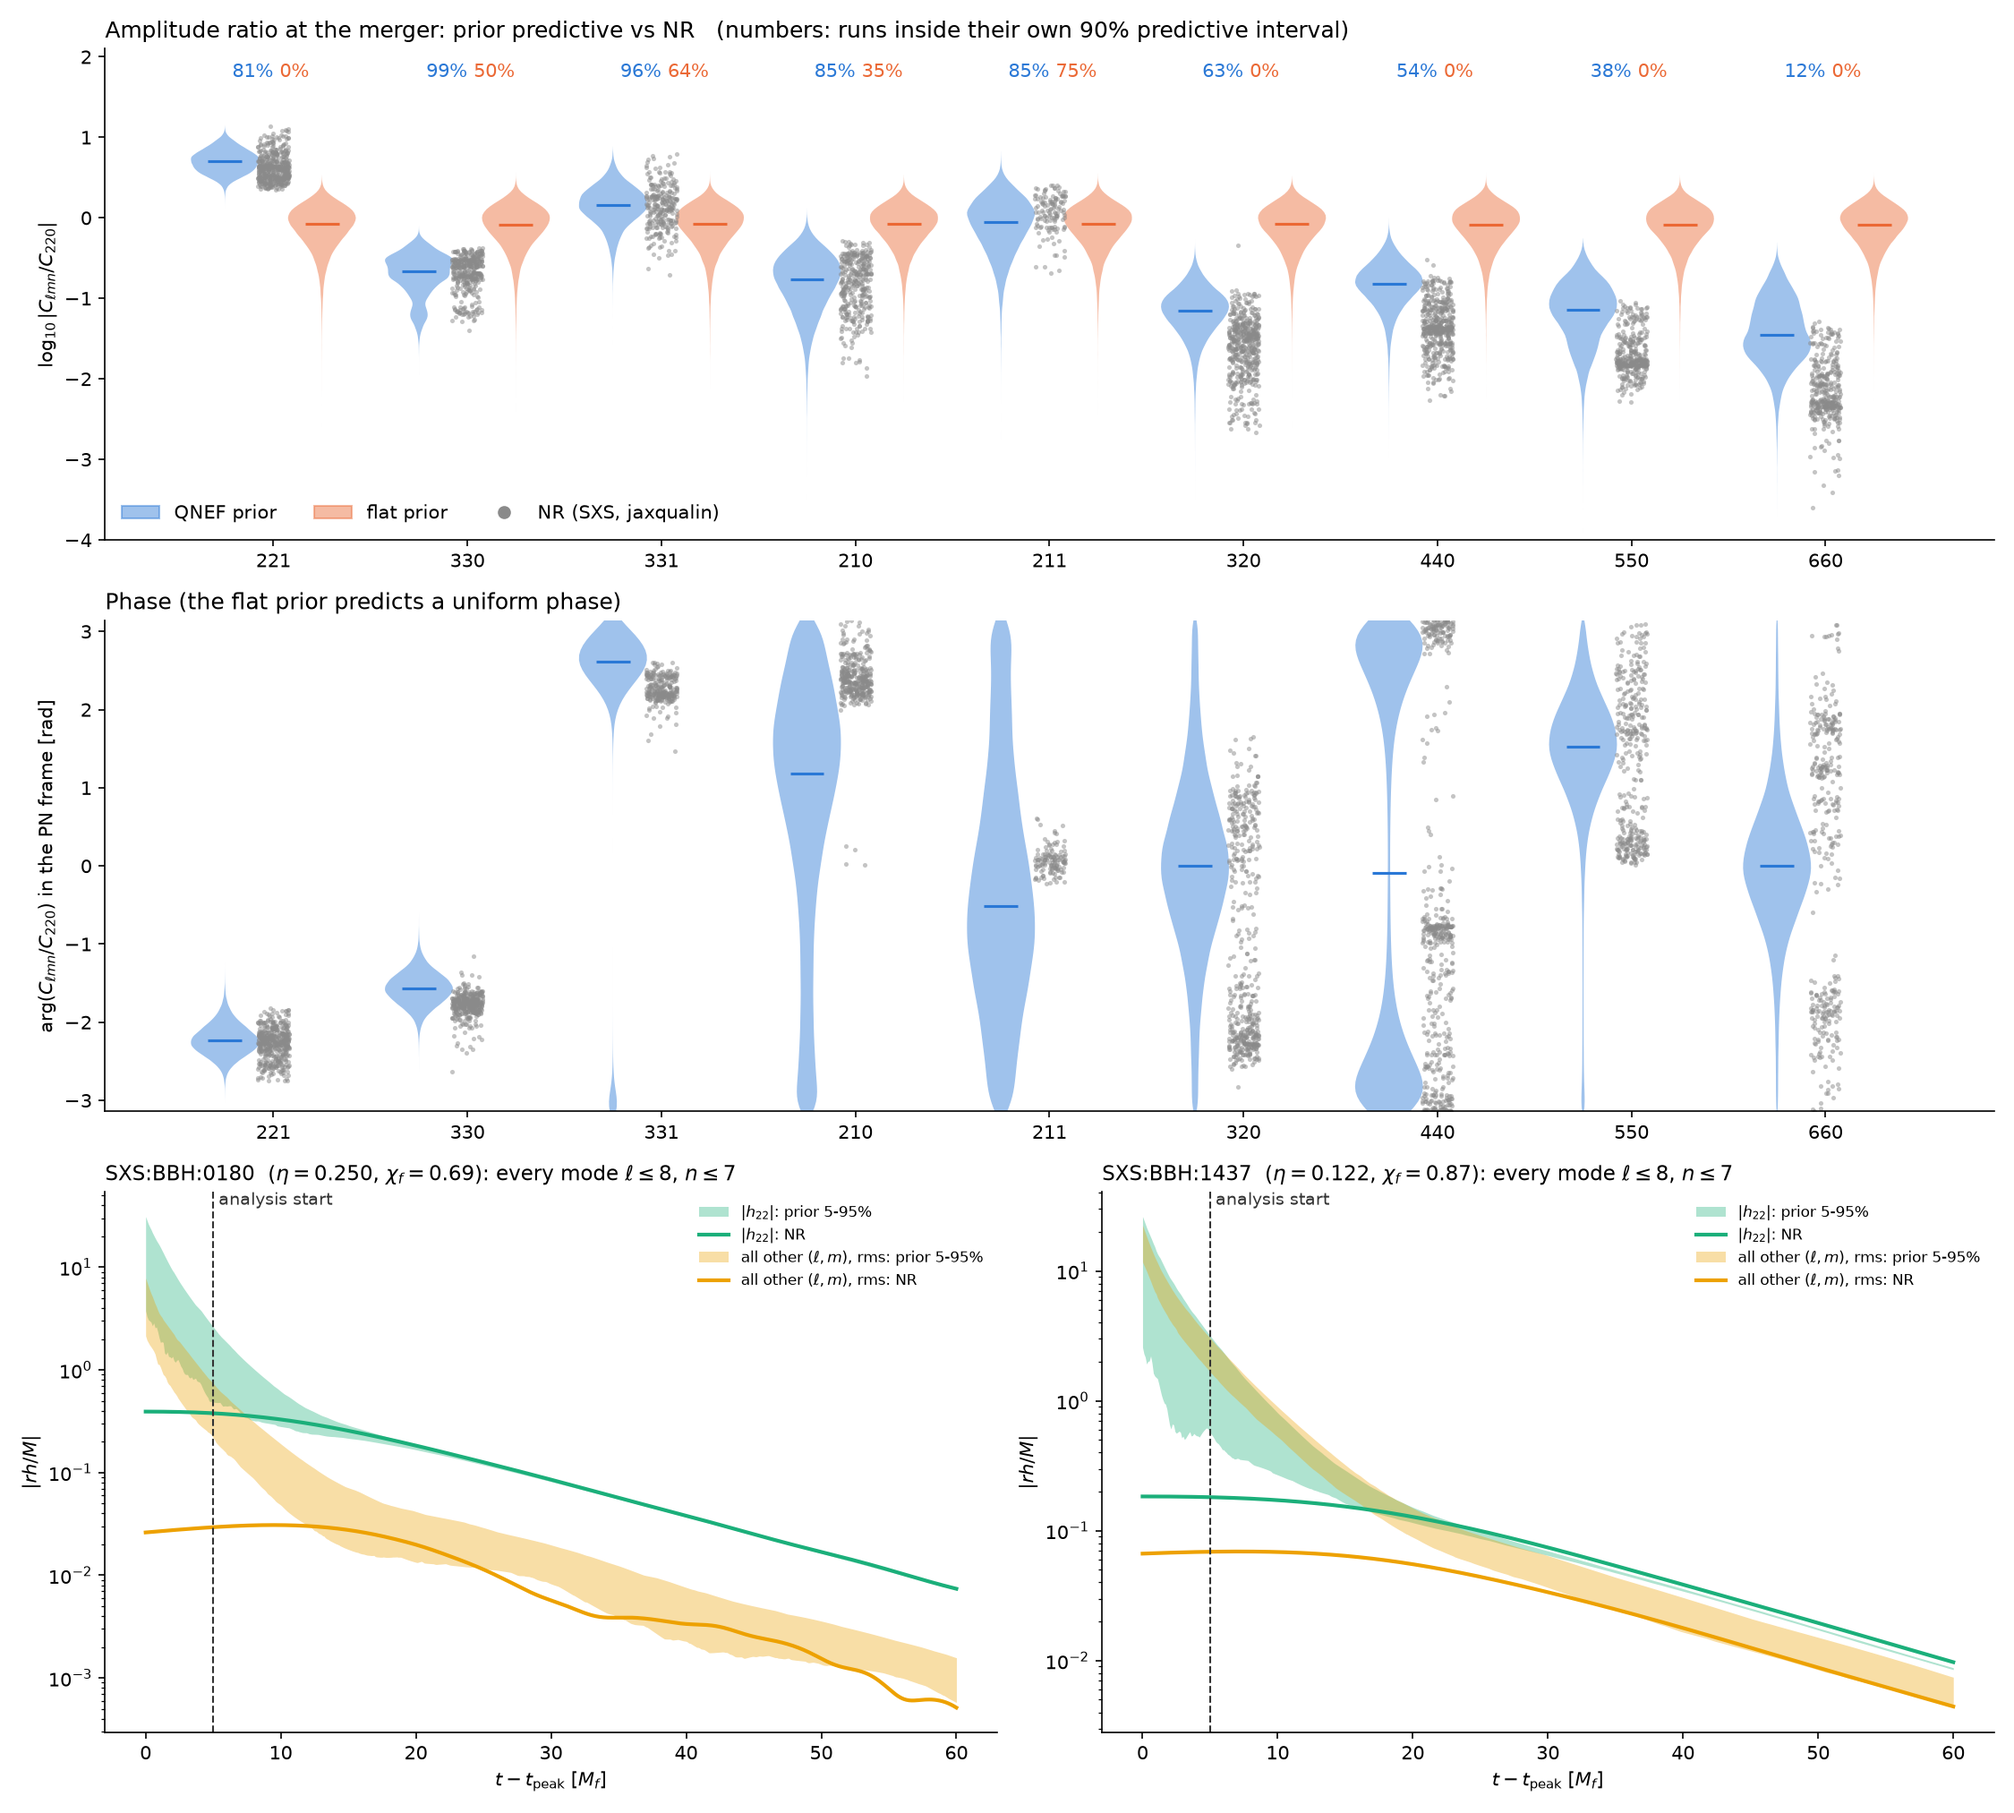
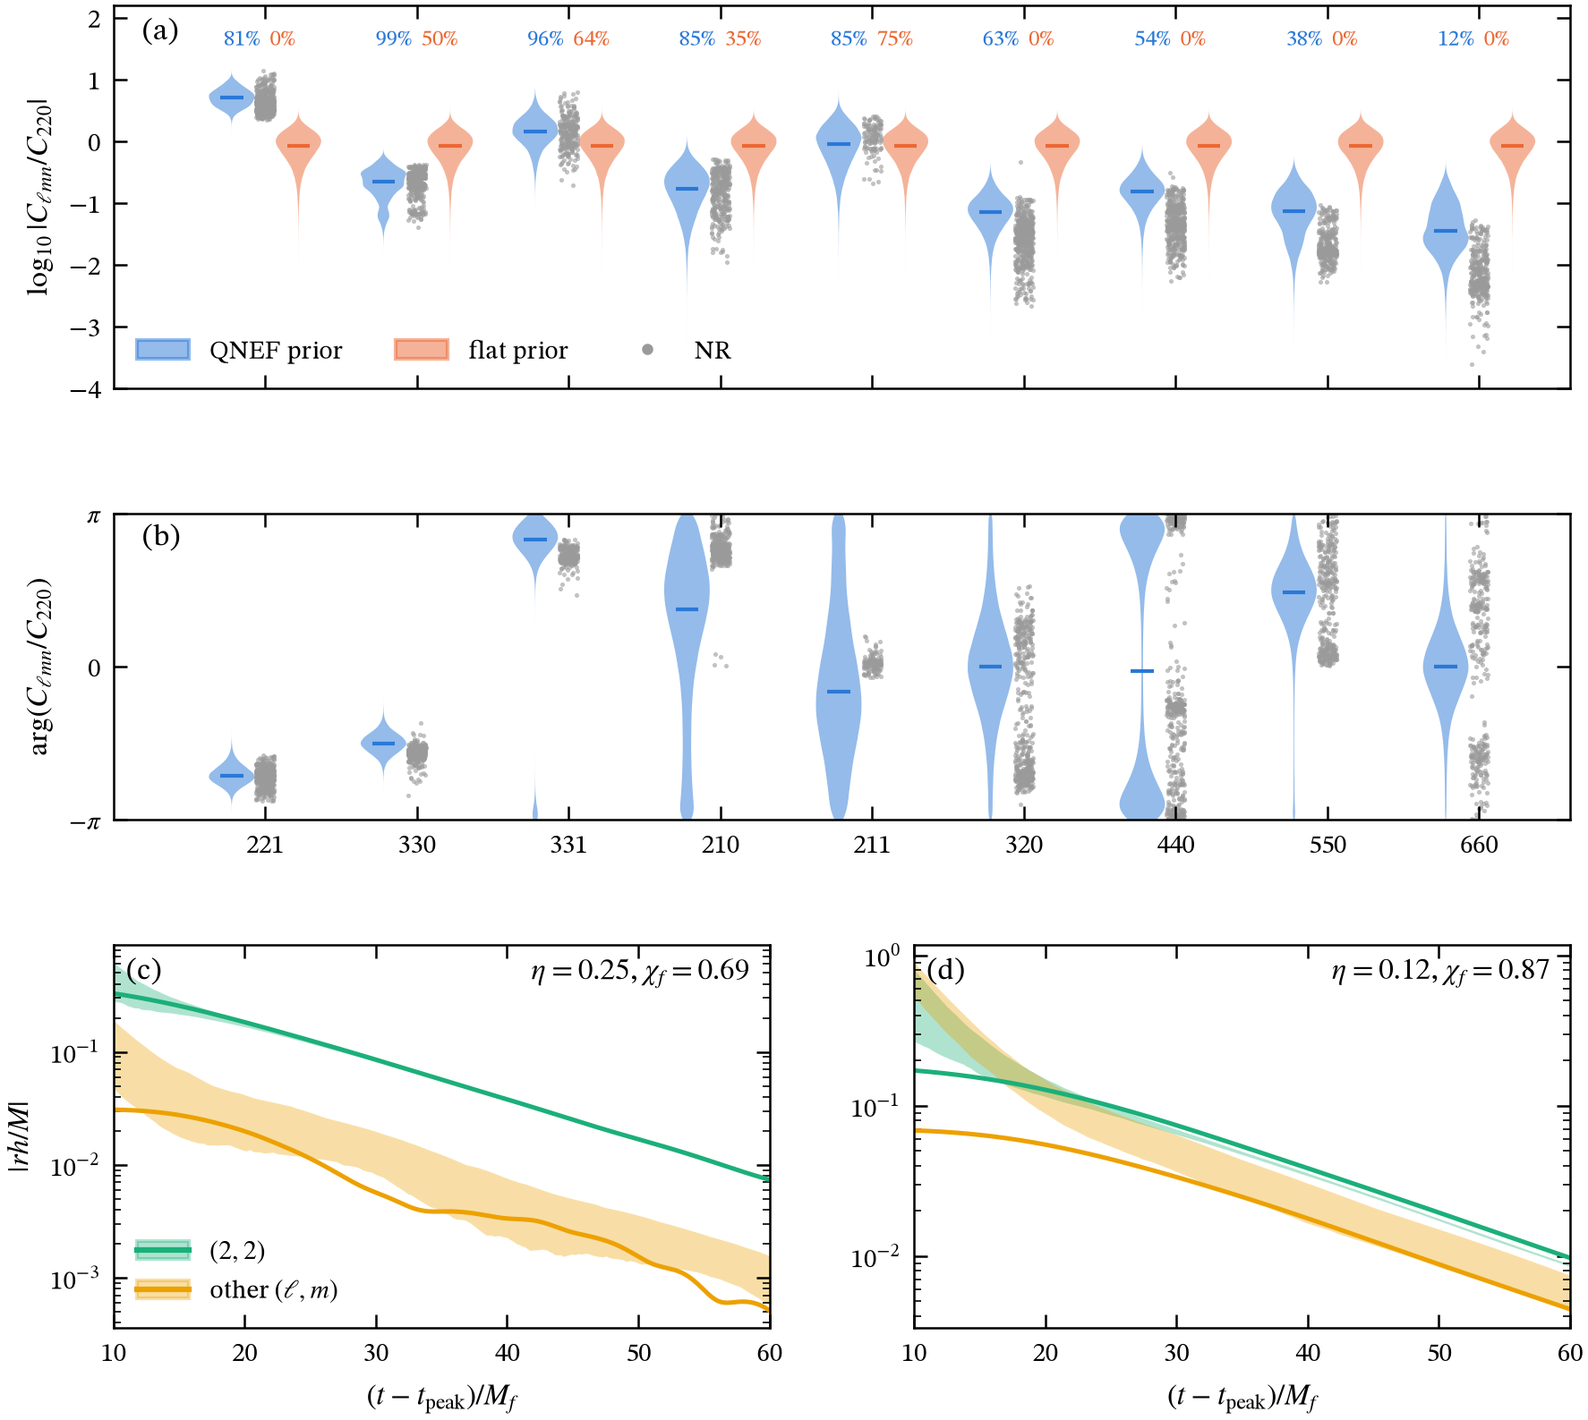
measuring-qnms: default start 10M, F1 retired, findings renumbered and redrawn

diff --git a/projects/measuring-qnms/results.md b/projects/measuring-qnms/results.md
@@ -1,73 +1,41 @@
-Findings under the v2 model (complex strain, tied mirror modes, detector noise), newest first. The v1 plots were retired on 2026-09-24; their numbers remain in the [log](#log).
+Findings under the v2 model (complex strain, tied mirror modes, detector noise, NR-calibrated priors), newest first. Every analysis starts at $t_0 = 10\,M_f$ after the peak of $|h_{22}|$ unless stated. The v1 plots and the earlier F1 (the calibration scatter) are retired; their numbers remain in the [log](#log).
 
-Each finding is self-contained:
-
-- **Question**: what the figure is meant to answer.
-- **Figure**: click to open it at full size.
-- **Takeaway**: the one or two sentences to remember.
-- **Setup**: source, detector, prior, mode content.
-- **Reproduce**: script and commit.
-
-### F3 — A GW250114-like ringdown against the detector sensitivities (2026-09-24, real SXS strain, every mode)
+### F2 — A GW250114-like ringdown against the detector sensitivities
 
 <figure>
-<a href="figs/sensitivity_overlay.png"><img src="figs/sensitivity_overlay.png" alt="Three panels: characteristic strain of the real SXS:BBH:0180 ringdown and of QNEF prior draws against O4, A+, ET-D and CE, from 5 M and from 10 M after the peak, and against LISA for a million-solar-mass remnant at redshift 1"></a>
-<figcaption>$2\sqrt f\,|\tilde h_+(f)|$ against $\sqrt{f S_n(f)}$ (Moore, Cole &amp; Berry convention). Black: the real SXS:BBH:0180 strain (equal mass, non-spinning, $\chi_f = 0.686$), all harmonics $\ell \le 8$, $m \ne 0$, at $\iota = 0.78$, from $t_0$ on. Grey: 40 QNEF-prior draws of every mode ($\ell \le 8$, $n \le 7$) conditioned on the 220 fitted to that strain. Panels (a) and (b) start at $5\,M$ and $10\,M$ after the peak. $h_+$ for $F_+ = 1$; 60° interferometers at their best orientation. ρ is the optimal single-detector SNR of the NR strain.</figcaption>
+<a href="figs/sensitivity_overlay.png"><img src="figs/sensitivity_overlay.png" alt="Characteristic strain of the real SXS:BBH:0180 ringdown and of QNEF prior draws against O4, A+, ET and Cosmic Explorer (left) and against LISA for a million-solar-mass remnant at redshift 1 (right), from 10 M after the peak"></a>
+<figcaption>$2\sqrt f\,|\tilde h_+(f)|$ against $\sqrt{f S_n(f)}$ (Moore, Cole &amp; Berry convention), from $t_0 = 10\,M_f$. Black: the SXS:BBH:0180 strain (equal mass, non-spinning, $\chi_f = 0.686$; all harmonics $\ell \le 8$, $m \ne 0$; $\iota = 0.78$). Grey: 40 draws of every mode ($\ell \le 8$, $n \le 7$) from the QNEF prior conditioned on the fitted 220. (a) GW250114 scaling: $M_f^{\rm det} = 68.1\,M_\odot$, $D_L = 405$ Mpc. (b) $M_f = 10^6\,M_\odot$ at $z = 1$. $h_+$ for $F_+ = 1$; ET and LISA (60° interferometers) at their best orientation. ρ is the optimal single-detector SNR of the NR strain.</figcaption>
 </figure>
-
-**Question.** How does a GW250114-like ringdown sit against current and future detectors, and does the QNM model with our prior reproduce the real strain?
 
 **Takeaway.**
 
-- **With the real strain, the SNR is right.** O4 gives an optimal ρ = 35 from the peak, consistent with LVK's network value of about 40 post-merger, and 22 from $10\,M$. The earlier version injected the jaxqualin QNM fit, which is about 10× too loud at the peak and gave ρ = 120.
-- **From $5\,M$ (a), the all-mode draws scatter well above the real strain,** below 100 Hz and above 400 Hz. From $10\,M$ (b) they bracket it (see F2 for the coverage numbers).
-- **Optimal SNRs from $5\,M$:** O4 27, A+ 48, ET-D 223, CE 20 km 266, CE 40 km 389. From $10\,M$: 22, 41, 187, 223, 326. From the peak, O4 gets 35. For a $10^6\,M_\odot$ remnant at $z = 1$, LISA gets about 2800 per channel from $10\,M$.
+- The prior draws bracket the real strain.
+- Optimal SNRs from $10\,M$: O4 22, A+ 41, ET 187, CE 20 km 223, CE 40 km 326; LISA about 2800 per channel.
+- From the peak, O4 gets 35, in line with LVK's network value of about 40 post-merger.
 
-**Caveats.** $\varphi$ is set to 0 and $\iota$ is the folded value. $D_L = 405$ Mpc comes from $z = 0.086$. $m = 0$ harmonics are left out. 
+**Caveats.** $\varphi = 0$; $\iota$ is the folded value; $m = 0$ harmonics are left out; $D_L$ comes from $z = M_f^{\rm det}/M_f - 1$.
 
-**Reproduce.** `python -m mqnm.experiments.sensitivity_overlay` (downloads SXS:BBH:0180 through `sxs`).
+**Reproduce.** `python -m mqnm.experiments.sensitivity_overlay`.
 
-### F2 — Do the calibrated priors actually cover NR? (2026-09-24; strain row added)
+### F1 — Do the calibrated priors cover NR?
 
 <figure>
-<a href="figs/prior_vs_nr.png"><img src="figs/prior_vs_nr.png" alt="Top two rows: prior-predictive amplitude ratios per mode versus NR, modulus and phase. Bottom row: NR strain versus prior bands with every mode for two SXS runs"></a>
-<figcaption>Rows 1–2: for each SXS run, both priors conditioned on that run's own 220 predict $C_j/C_{220}$ at the merger. Violins pool the predictions and grey dots are NR; the numbers give the fraction of runs inside *their own* 90% interval (blue: QNEF, orange: flat). Row 3: the NR strain for SXS:BBH:0180 (GW250114-like) and SXS:BBH:1437 ($q \approx 6$, $\chi_f = 0.87$) against 5–95% bands from 200 draws of **every mode** ($\ell \le 8$, $n \le 7$) of the QNEF prior, conditioned on the 220 fitted to that strain. The two quantities are $|h_{22}|$ and the rms of all other $m > 0$ harmonics.</figcaption>
+<a href="figs/prior_vs_nr.png"><img src="figs/prior_vs_nr.png" alt="(a, b) prior-predictive amplitude ratios per mode versus NR, modulus and phase; (c, d) NR strain versus prior bands with every mode for two SXS runs, from 10 M"></a>
+<figcaption>(a, b) For each SXS run, both priors are conditioned on that run's own 220 and predict $C_j/C_{220}$ at the merger. Violins pool the predictions and grey dots are NR (jaxqualin). The numbers give the fraction of runs inside their own 90% interval (blue: QNEF, orange: flat). (c, d) NR strain for SXS:BBH:0180 and SXS:BBH:1437 from $10\,M_f$ against 5–95% bands from draws of every mode ($\ell \le 8$, $n \le 7$). Green: $|h_{22}|$; yellow: rms of all other $m > 0$ harmonics.</figcaption>
 </figure>
-
-**Question.** With the calibrated errors, are the priors consistent with NR, both per mode and for the total strain?
 
 **Takeaway.**
 
-- **Per mode:** the QNEF prior covers the 221, 330, 331, 210 and 211 (81–99%). It overpredicts the moduli of the 320, 440, 550 and 660 (12–63%), where PN is biased. The flat prior is miscalibrated almost everywhere.
-- **Total strain, coverage across 30 SXS runs** (fraction of NR samples inside the prior's 90% band):
+- **Per mode:** the QNEF prior covers the 221, 330, 331, 210 and 211 (81–99%). It overpredicts the moduli of the 320, 440, 550 and 660, where leading-order PN is biased high. Those modes are weak, and the error is in the optimistic direction. The flat prior is miscalibrated almost everywhere.
+- **Total strain, coverage across 30 SXS runs:**
 
-| window after the peak | $h_{22}$ | other harmonics | prior / NR for $\lvert h_{22} \rvert$ |
+| window after the peak | $h_{22}$ | other harmonics | prior / NR for $\lvert h_{22}\rvert$ |
 |---|---|---|---|
-| 5–10 M | 61% | 2% | 1.78 (10–90%: 1.18–4.49) |
+| 5–10 M | 61% | 2% | 1.78 |
 | 10–15 M | 83% | 33% | 1.06 |
 | 15–20 M | 95% | 59% | 0.98 |
 | 20–25 M | 72% | 68% | 0.97 |
 
-- **Before about 10 M the prior predicts too much strain.** This comes mostly from the *jaxqualin-calibrated* overtones: jaxqualin measures their amplitudes where they are stable (10–15 M) and quotes them back at the peak, and at 5 M the real waveform is not yet described by them. Starting at 5 M would therefore overcount measurable channels. **10 M is the earliest start at which the prior is consistent with NR.**
-- The other harmonics stay under-covered at late times, because NR contains content the model lacks (e.g. the quadratic 220×220 in $h_{44}$).
+- **This sets the default start at 10 M.** Earlier, the prior predicts too much strain, mostly because jaxqualin amplitudes are extracted where stable (10–15 M) and quoted back at the peak. Improving on this is an open item in the [plan](#plan).
 
-**Reproduce.** `python -m mqnm.experiments.prior_vs_nr` (downloads two SXS runs).
-
-### F1 — Is the analytic prior right, and how wrong is the flat one? (2026-09-24, revised for the conditioned prior)
-
-<figure>
-<a href="figs/nr_calibration.png"><img src="figs/nr_calibration.png" alt="Three panels: NR over QNEF overtone ratios in phase and modulus; NR over PN fundamental ratios in phase and modulus; NR amplitude over the 220 per mode"></a>
-<figcaption>Each dot is one SXS run; a perfect prediction sits at phase 0, modulus 1. (a) Overtone ratios $C_{\ell m1}/C_{\ell m0}$ over the QNEF $g$. (b) Fundamental ratios $C_{\ell m0}/C_{220}$ over the complex PN $w$, after rotating each run into the PN frame. (c) $|C_{\ell mn}/C_{220}|$, which the flat prior sets to 1; diamonds are the rms values.</figcaption>
-</figure>
-
-**Question.** Does the analytic PN × QNEF prior describe NR ringdowns at the merger, in modulus *and phase*, and how large are its errors compared with a flat prior's?
-
-**Takeaway.**
-
-- **Overtones:** the QNEF phase is right. The 221/220 median phase error is $-0.01$ rad, with 0.11 rad scatter over 457 runs, and the modulus is within about 20%. Calibrated errors: $f_{221} = 0.22$, $f_{331} = 0.29$, $f_{211} = 0.90$ (NR is about 1.8× the prediction).
-- **Fundamentals:** PN gets the 330 relative to the 220 right in phase ($-0.19$ rad, interquartile range 0.14 rad) and modulus (1.03), so $e_{33} = 0.29$. For the 210, NR is biased by 1.9× and $+0.8$ rad, since leading-order PN has no spin term; $e_{21} = 2.1$. The 440 is barely predictable ($e_{44} = 1.0$, with two phase clusters) and so, in effect, decouples from the 220.
-- **Flat prior:** it is off by up to two decades. The 221 is $5\times$ the 220; the 660 is $0.014\times$.
-
-**Setup.** jaxqualin SXS catalogue, 500 runs with $\chi_f \ge 0$, amplitudes at the peak of $|h_{22}|$, spheroidal-corrected, 5σ outlier rejection, PN at $v = 0.7$.
-
-**Reproduce.** `python -m mqnm.experiments.nr_calibration`, which also writes `mqnm/data/nr_calibration.json`.
+**Reproduce.** `python -m mqnm.experiments.prior_vs_nr`.

diff --git a/projects/measuring-qnms/overview.md b/projects/measuring-qnms/overview.md
@@ -30,11 +30,10 @@ With white noise and a flat prior, $s_i = \rho\,\sigma_i(Z)$ with $\rho = \sigma
 
 ## Where things stand (2026-09-24)
 
-v1 (a complex signal, white or circulant noise, flat / PN / QNEF priors) is retired; its numbers remain in the [log](#log). v2 so far:
-
-- **Phase A, done:** the complex strain $h = h_+ - i h_\times$ with mirror modes tied by equatorial symmetry; detector projections and networks; noise for O4, A+, ET, CE and LISA from their PSDs; modes up to $\ell = 8$.
-- **Under discussion:** how to parametrize the amplitudes. See [derivations §10](#derivations).
-- **Next:** the amplitude prior calibrated on NR (jaxqualin), then the figures in the [plan](#plan).
+- **Model:** the complex strain with tied mirror modes and spheroidal harmonics; detector projections and networks; noise for O4, A+, ET, CE and LISA from their PSDs; modes up to $\ell = 8$, $n = 7$.
+- **Prior:** conditioned on the observing angles, PN × complex QNEF, with errors calibrated on NR (jaxqualin per mode, SXS strain for the overtones jaxqualin does not see). See [derivations §8](#derivations).
+- **Default start: $10\,M_f$** after the peak, where the prior is consistent with NR (F1).
+- **Next:** the two-mode toy model, saturation tests, and the per-detector channel counts (the [plan](#plan)).
 
 ## Open threads
 

diff --git a/projects/measuring-qnms/plan.md b/projects/measuring-qnms/plan.md
@@ -17,6 +17,13 @@ These are your requests, numbered as you gave them (there is no item 7), ordered
 
 The model is in [derivations §8](#derivations). **Status (2026-09-24):** the priors are implemented and calibrated on NR (finding [F1](#results)). $t_{\rm ref}$ is the merger by definition; only the errors $f_{\ell mn}$ and $k_{\ell m}$ are calibrated, for both the QNEF and the flat prior. The package has been cut to 608 lines.
 
+### Status and open investigations (2026-09-24)
+
+- **Default start: $t_0 = 10\,M_f$** after the peak (`design.DEFAULT_T_START`). Before that the prior overpredicts the NR strain (F1).
+- **Open: can we do better before 10 M?** Options: overtone errors that depend on $t_0$; per-mode stability times from jaxqualin; treating pre-10 M non-QNM content as structured noise.
+- **Open:** harmonics other than (2,2) stay under-covered at late times (quadratic 220×220 in $h_{44}$ and retrograde content are not modelled).
+- **Open:** the zero-mean overtone scale ($a = 1.41$, fitted at 5 M) still trends mildly with spin.
+
 ### Phase C: figures
 
 | item | figure |

diff --git a/projects/measuring-qnms/log.md b/projects/measuring-qnms/log.md
@@ -1,5 +1,10 @@
 Newest first. One entry per working session: what was done, what was learned, and what went wrong.
 
+### 2026-09-24 — default start 10 M; findings renumbered
+
+- The default analysis start is now $10\,M_f$. How to do better at earlier times is an open item in the [plan](#plan).
+- Retired the old F1 (the calibration scatter). The old F2 is now **F1** and the old F3 is now **F2**, both redrawn in publication style from $10\,M$. The earlier log entries use the old numbering.
+
 ### 2026-09-24 — zero-mean overtones calibrated on the total strain; start time
 
 - Following your suggestion, overtones jaxqualin does not see now have zero mean and are independent, with scale $a\,|g_{\ell m 1}|\,\sigma_{\ell m}$. $a = 1.41$ is fitted to the residual power of 30 SXS strains from $5\,M$. A QNEF-shaped variance ($\propto |g_{\ell m n}|$) failed: the per-run $a$ was strongly anticorrelated with spin. Details in [derivations §8.3](#derivations).

diff --git a/projects/measuring-qnms/derivations.md b/projects/measuring-qnms/derivations.md
@@ -182,7 +182,7 @@ Two alternatives failed:
 
 With the first-overtone scale, the per-run $a$ scatters by 0.16 dex.
 
-The values are in `mqnm/data/nr_calibration.json`; see F1 and F2 in [results](#results).
+The values are in `mqnm/data/nr_calibration.json`; see F1 in [results](#results).
 
 ### 8.4 Counting parameters
 
